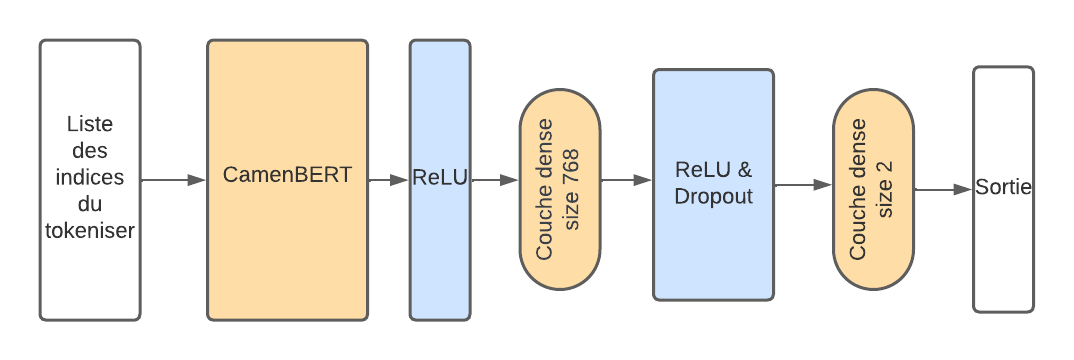
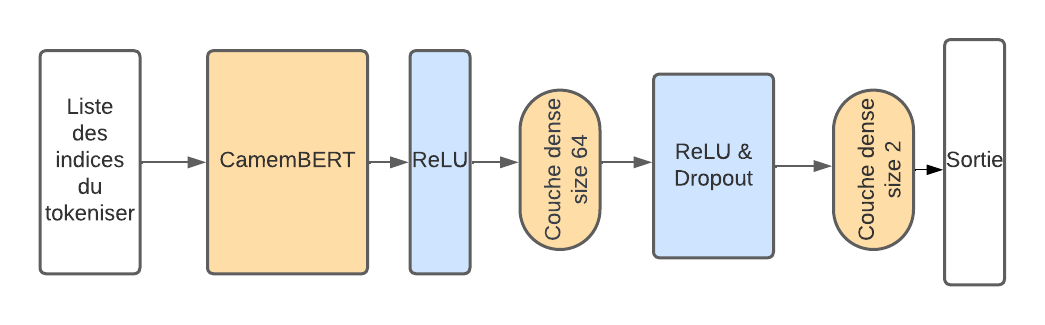
modifs et relecture de Clea

Changed region(s): [[0.0306, 0.0923, 0.9799, 0.8923], [0.9187, 0.0923, 0.9493, 0.1231]]

diff --git a/report/sections/train.tex b/report/sections/train.tex
@@ -1,16 +1,16 @@
-Nous avons entraîné les modèles unimodaux et le \textit{EARLY FUSION}, sur 2 epochs, car ils utilisent tous (sauf \textit{VIDEO}), 
+Nous avons entraîné les modèles unimodaux et le \textit{EARLY FUSION} sur 2 epochs, car ils utilisent tous (sauf \textit{VIDEO}), 
 un modèle pré-entraîné, comment BERT ou Wave2Vec. Nous avons ensuite gardé les poids de 
 l'epoch qui avait la plus basse loss de validation.
 
-Cependant, l'entraînement du modèle \textit{VIDEO}, dû a la grandeur des données et 
-leurs temps de chargement dans la RAM, nous avons décidé de faire qu'une seule epoch
+Cependant, pour l'entraînement du modèle \textit{VIDEO}, dû à la grandeur des données et 
+leur temps de chargement dans la RAM, nous avons décidé de faire qu'une seule epoch
 \footnote{Une epoch durait plus de 2h30 sur google colab avec un GPU Nvidia T4.}, et de ne pas l'intégrer dans les modèles multimodaux.
 
 \subsection{Loss et poids}
 Nous avons utilisé la fonction de coût \textit{crossentropy} pour l'entrainement de modèles. 
-Cependant, du fait, du fait du grand déséquilibré des classes (voir Table~\ref{tab: label distribution}), nous avons ajouté des poids 
+Cependant, du fait du grand déséquilibré des classes (voir Table~\ref{tab: label distribution}), nous avons ajouté des poids 
 sur les classes dans la fonction crossentropy. En effet, sans ces poids, les modèles avaient tendance à prédire toujours des $0$, ce 
-qui leurs permetait d'optenir $80\%$ d'accuracy sans dificultés. Nous avons alors cherché des poids à mettre dans la loss de telle sorte 
+qui leur permetait d'optenir $80\%$ d'accuracy sans dificultés. Nous avons alors cherché des poids à mettre dans la loss de telle sorte 
 que les modèles ne prédisaient pas systématiquement qu'un seul label
 \footnote{Si on met un poids trop grand pour le label 1, même s'il y a que $20\%$ de $1$, les modèles vont prédire que des $1$.}.
 Nous avons alors trouvé et appliqué les poids $w_0 = 1$ et $w_1=3.9$. La loss se calcule alors avec l'équation~\ref{eq: loss}
@@ -25,9 +25,8 @@ Nous avons alors trouvé et appliqué les poids $w_0 = 1$ et $w_1=3.9$. La loss 
 Pour comparer les résultats obtenus, nous avons utilisé la loss, mais aussi d'autres métriques,
 comme l'accuracy, la précision, le rappel et le $f_1$-score.
 
-Du fait des déséquilibres de classes, l'accuracy n'est pas les métriques la plus cruciale. On a donc opté pour 
-calculer aussi la précision, le rappel et le $f_1$-score. Pour ces métriques, on a choisi de les calculer 
+Du fait du déséquilibre des classes, l'accuracy n'est pas la métrique la plus cruciale. On a donc aussi calculer la précision, le rappel et le $f_1$-score. Pour ces métriques, on a choisi de les calculer 
 sur chacune des classes et d'en faire la moyenne. Ainsi un rappel de $0.3$ signifiera que la moyenne du rappel sur
-la classe $0$ et la classe $1$ fasse $0.3$. Nous avons choisi de faire cela, car si l'on regardait seulement 
-le rappel sur la classe $1$, le TRUE POSITIF (TP) est très souvent égale à $0$ et donc le rappel est nul. De même 
-pour la précision et de $f_1$-score, ce qui nous apportait moins d'information.
+la classe $0$ et la classe $1$ fait $0.3$. Nous avons choisi de faire cela, car si l'on regardait seulement 
+le rappel sur la classe $1$, le TRUE POSITIF (TP) est très souvent égal à $0$ et donc le rappel est nul. De même 
+pour la précision et de $f_1$-score, ce qui nous apportait moins d'informations.

diff --git a/report/report.tex b/report/report.tex
@@ -58,13 +58,14 @@ comparer et d'explorer différents modèles de traitement multimodaux, et leur f
 \section{Conclusion}
 
 Notre projet a exploré l'utilisation de modèles unimodaux et du multimodaux pour l'analyse dynamique de la conversation en français.
-Nos modèles unimodaux ont été entraînés sur des données textuelles, audio et vidéo séparément. Leurs performances variaient selon le type de données, avec des résultats prometteurs pour les données textuelles et audio, mais des résultats moins satisfaisants pour les données vidéo.
+Nos modèles unimodaux ont été entraînés sur des données textuelles, audio et vidéo séparément. 
+Leurs performances variaient selon le type de données, avec des résultats prometteurs, selon des modalités différentes, pour les données textuelles, audio et vidéo.
 
 Nos modèles multimodaux ont été entraînés en combinant les données textuelles et audio. 
-% Les résultats de ces modèles étaient comparables à ceux des modèles unimodaux, ce qui indique que les données textuelles et audio contiennent des informations complémentaires.
+Les résultats de ces modèles étaient comparables à ceux des meilleurs modèles unimodaux, ce qui indique que les données textuelles et audio contiennent des informations complémentaires.
+C'est pour cela que les résultats des modèles multimodaux ont des performances plutôt similaires au modèle unimodal vidéo. 
 
-% Ces résultats suggèrent que les modèles multimodaux, en particulier ceux qui combinent les données textuelles et audio, peuvent être des outils efficaces pour analyser la dynamique conversationnelle. 
-% Cependant, la performance inférieure du modèle vidéo indique que des recherches supplémentaires sont nécessaires pour mieux comprendre comment intégrer et exploiter les données vidéo dans ces analyses.
+Ces résultats suggèrent que les modèles multimodaux, en particulier ceux qui combinent les données textuelles et audio, peuvent être des outils efficaces pour analyser la dynamique conversationnelle. 
 
 Comme perspective, on pourrait explorer différentes manières d'intégrer les trois modalités de données (textes, audios et vidéos) dans un modèle multimodal, 
 ainsi que l'utilisation d'autres types de données ou de modèles d'apprentissage automatique. 

diff --git a/report/sections/model_multimodal.tex b/report/sections/model_multimodal.tex
@@ -6,12 +6,12 @@ Les modèles individuels sont initialement pré-entraînés, puis fusionnés en 
 nouvel entraînement. Le pré-entraînement des modèles individuels présente l'avantage de réduire le temps de convergence de
 l'entraînement de cette architecture multimodale comprenant un nombre important de paramètres.
 
-Au cours de ce processus, pour des raisons de contraintes de ressources, on gèle les poids des modèles unimodales.
+Au cours de ce processus, pour des raisons de contraintes de ressources, on gèle les poids des modèles unimodaux.
 
 \subsection{Le LATE FUSION}
 Ce premier modèle multimodal fait passer chaque donnée dans son modèle pré-entraîné associé et fait une moyenne des sorties. Le but
-est alors de faire une moyenne des probabilités selon chaque canal. Nous appellerons ce modèle \textit{LATE FUSION}, du fair que la 
-fusion se fasse à la fin. Comme ce modèle utilise seulement les modèles unimodaux pré-entrainé, il n'y a pas besoin de faire 
+est alors de faire une moyenne des probabilités selon chaque canal. Nous appellerons ce modèle \textit{LATE FUSION}, du fait que la 
+fusion se fasse à la fin. Comme ce modèle utilise seulement les modèles unimodaux pré-entrainés, il n'y a pas besoin de faire 
 d'apprentissage sur ce modèle.
 La Figure~\ref{fig: LATE FUSION} résume l'architecture de ce modèle.
 
@@ -25,7 +25,7 @@ La Figure~\ref{fig: LATE FUSION} résume l'architecture de ce modèle.
 \subsection{L'EARLY FUSION}
 Ce deuxième modèle plus évolué consiste à faire passer chaque donnée dans son modèle pré-entraîné associé et de récupérer
 l'information avant qu'elle ne passe dans la dernière couche dense (celle de taille deux). On concatène alors toute l'information 
-et l'on la fait passer dans une grande couche dense de taille 2.
+et on la fait passer dans une grande couche dense de taille 2.
 La Figure~\ref{fig: EARLY FUSION} résume l'architecture de ce modèle, qu'on appellera \textit{EARLY FUSION}, du fait que la fusion
 se passe avant les couches de neurones.
 

diff --git a/report/sections/model_unimodal.tex b/report/sections/model_unimodal.tex
@@ -20,8 +20,8 @@ appelé CamemBERT et nous avons gelé les poids de CamemBERT.
 
 On prend alors les données de textes qui sont une liste d'entiers, correspondant 
 à l'indice de chaque mot du tokenizer de CamemBERT. Ces données passent alors dans CamemBERT, elles ressortent avec une dimension de
-64. Elles passent alors dans une activation ReLU puis une couche dense de taille 768, puis une couche de dropout (avec un taux
-d'oublie de $10\%$), pour enfin passer un dernier ReLU et une dernière couche dense à 2 dimensions. 
+64. Elles passent alors dans une activation ReLU puis une couche dense de taille 64, puis une couche de dropout (avec un taux
+d'oubli de $10\%$), pour enfin passer dans un dernier ReLU et une dernière couche dense à 2 dimensions. 
 La Figure~\ref{fig: model_text} résume l'architecture de ce modèle, qu'on appelera \textit{TEXT}.
 
 \begin{figure}[H]
@@ -61,8 +61,8 @@ Term Memory). En effet, ce modèle est pertinent pour la détection du changemen
 informations sur de longues séquences temporelles, ce qui est essentiel pour analyser les variations subtiles dans les mouvements
 des landmarks faciaux. 
 
-Comme pour l'audio, la vidéo contient un ensemble de deux fois 10 images pour chacun des interlocuteurs. On les fait alors passer
-dans deux couches LSTM et on concatène les sorties pour ensuite les faire passer dans du relu et une couche dense de taille 2.
+Comme pour l'audio, la vidéo contient un ensemble de deux fois 10 images pour chaque interlocuteur. On les fait alors passer
+dans deux couches LSTM et on concatène les sorties pour ensuite les faire passer dans une couche ReLU et une couche dense de taille 2.
 La Figure~\ref{fig: model_video} résume l'architecture de ce modèle, qu'on appelera \textit{VIDEO}.
 
 \begin{figure}[H]

diff --git a/report/sections/data.tex b/report/sections/data.tex
@@ -13,11 +13,11 @@ On a choisi de prendre les 20 derniers mots, les 2 dernières secondes de l'audi
 (appartenant aux deux personnes pour l'audio et la vidéo).
 
 Les données du flux vidéo ont été pré-process par un modèle permettant d'extraire les coordonnées de 709 points d'intérêts du 
-visage, appelé landmarks. On a alors pour chaque image du flux vidéo, une liste de coordonnées représentent les landmarks. Cependant, 
-du fait au grand nombre des données, leur analyse a été assez compliquée
+visage, appelés landmarks. On a alors pour chaque image du flux vidéo, une liste de coordonnées représentant les landmarks. Cependant, 
+du fait au grand nombre des données, leur analyse a été assez compliquée.
 \footnote{En effet, il y a 15 csv contenant chacun 30000 lignes et 700 colonnes. Ce qui fait que dans le dataloader, 
-la récupération d'un item (récupération des 2 fois 10 images) nécessité d'ouvrir, parcourir le csv pour récupérer les bonnes lignes et
-le refermer à la fin de l'itération (du au fait qu'on prend chaque item de manières aléatoire). On a quand même pu accélérer le processus
+la récupération d'un item (récupération des 2 fois 10 images) nécessité d'ouvrir, de parcourir le csv pour récupérer les bonnes lignes et
+de le refermer à la fin de l'itération (dû au fait qu'on prend chaque item de manières aléatoire). On a quand même pu accélérer le processus
 en utilisant la fonction \textit{skiprows} de \textit{pandas} qui permet de récupérer des lignes spécifiques dans un gros csv sans lire 
 toutes les lignes mais cela n'a pas été suffisant.}
 

diff --git a/report/sections/results.tex b/report/sections/results.tex
@@ -21,3 +21,10 @@ La Figure~\ref{tab: test} nous alors les résultats des modèles en fonctions de
     \caption{Résultats de test des modèles. Le \textit{LATE} et \textit{EARLY FUSION} n'utilisent pas le modèle \textit{VIDEO}.}
     \label{tab: test}
 \end{table}
+
+Les modèles unimodaux de texte et vidéo performent de manière très satisfaisantes selon leur accuracy, mais moins bien selon les autres métriques.
+Le modèle unimodal audio est moins bon globalement par rapport aux autres modèles unimodaux selon l'accuracy. 
+Cependant, il audio performe de manière satisfaisante uniformément sur les différentes métriques d'accuracy, de précision, de rappel et de $f_1$ score. 
+
+Les modèles unimodaux sont indépendaemment meilleurs que les modèles multimodaux. Tandis que, les modèles multimodaux sont satisfaisants, voire même légèrement meilleurs que les modèles unimodaux selon les différentes métriques. 
+Les modèles unimodaux ont une tendance à mieux performer pour l'une des métriques proposées, tandis que les modèles multimodaux ont des performances plus homogènes parmi les différentes métriques utilisées. 
